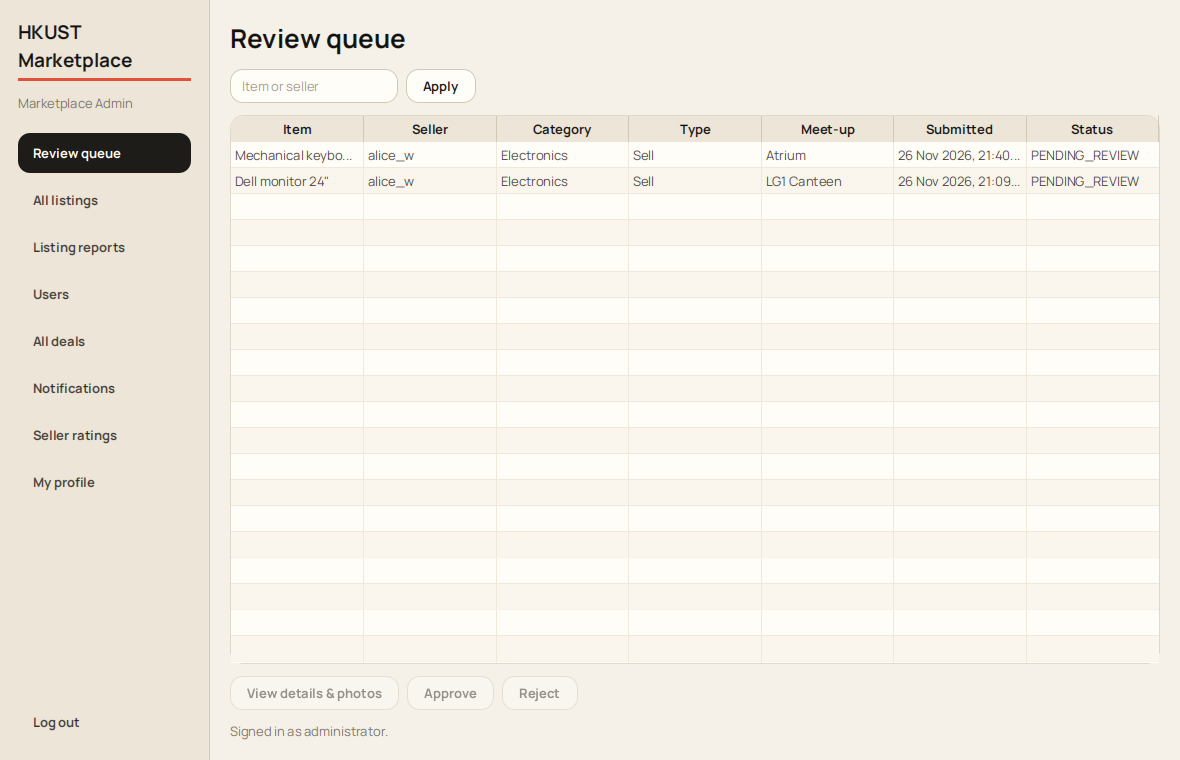
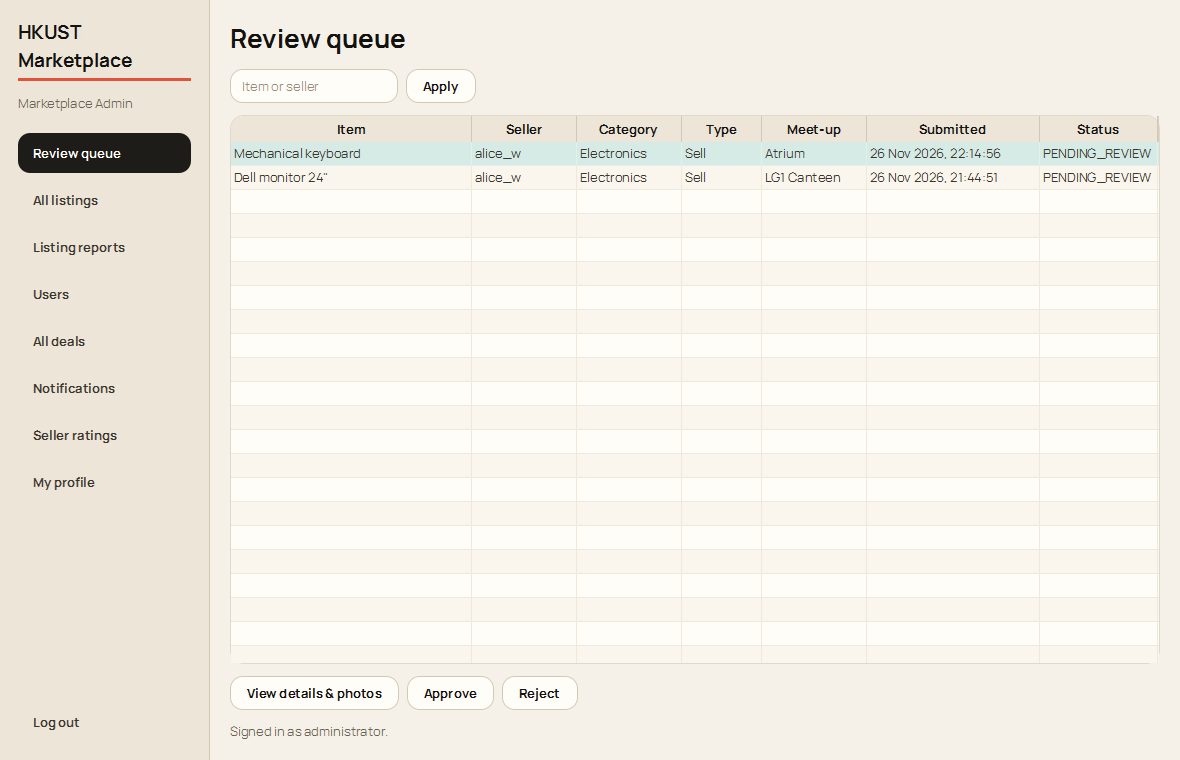
Refresh Admin Portal screenshots and document the redesigned workflows

diff --git a/SUBMISSION.md b/SUBMISSION.md
@@ -68,10 +68,11 @@ Also see Aryan's screenshots for each subtask, 2.1 to 2.9, in [docs/task2-screen
 | ![](docs/final/screenshots/task2-seller/s19_seller_notifications.png) | Seller notifications · ![](docs/final/screenshots/task2-seller/s20_seller_profile.png) Seller profile |
 
 ### Task 3 · Admin Portal (Hasnain)
-Also see [docs/task3/README.md](docs/task3/README.md).
+These screens were captured from the running JavaFX app with the shared theme from commit [15e22d7](https://github.com/saumikvij/HKUSTMarketplace/commit/15e22d77f4ccc5531722b648437f69733cf72d89). The [Task 3 guide](docs/task3/README.md) includes a second approval walkthrough.
 
 | Screen | Sample input → output |
 |---|---|
+| ![](docs/final/screenshots/task3-admin/a01_admin_login.png) | Enter the seeded administrator credentials on the Admin login screen. |
 | ![](docs/final/screenshots/task3-admin/a02_review_queue.png) | The review queue with two pending listings |
 | ![](docs/final/screenshots/task3-admin/a03_approve_confirm.png) | Approve the keyboard → ![](docs/final/screenshots/task3-admin/a04_listing_approved.png) it goes live for buyers |
 | ![](docs/final/screenshots/task3-admin/a05_reject_with_reason.png) | Reject the monitor with the reason "Please add a real photo of the monitor." → ![](docs/final/screenshots/task3-admin/a06_listing_rejected.png) |
@@ -79,6 +80,7 @@ Also see [docs/task3/README.md](docs/task3/README.md).
 | ![](docs/final/screenshots/task3-admin/a09_users.png) | User management · ![](docs/final/screenshots/task3-admin/a10_add_account_dialog.png) adding an account |
 | ![](docs/final/screenshots/task3-admin/a11_all_deals.png) | Every deal in the system · ![](docs/final/screenshots/task3-admin/a13_seller_ratings.png) seller ratings |
 | ![](docs/final/screenshots/task3-admin/a12_admin_notifications.png) | Admin notifications: submissions, reports and new accounts |
+| ![](docs/final/screenshots/task3-admin/a14_admin_profile.png) | Open My profile to inspect the current name and password-change fields. |
 
 ### All three portals working together
 All three portals share one stylesheet (`src/main/resources/hkust/marketplace/ui/style.css`): warm paper backgrounds, ink text, coral actions, teal for prices and selection, and the bundled Manrope typeface. Buyers and sellers both have a **Messages** tab listing all their conversations (Task 1 screenshots 52–53, Task 2 screenshots s22–s23).

diff --git a/docs/task3/README.md b/docs/task3/README.md
@@ -50,6 +50,10 @@ The sources and tests were compiled with the installed Java 21 and JavaFX runtim
 
 ### Execution screenshots
 
+All four screens below were captured from the running shared-theme build at [15e22d7](https://github.com/saumikvij/HKUSTMarketplace/commit/15e22d77f4ccc5531722b648437f69733cf72d89). This walkthrough uses a fresh copy of the seeded demo. After the administrator approved the pending monitor, the review queue cleared and the Buyer search returned one result at HK$600.
+
+The [integrated Admin walkthrough](../../SUBMISSION.md#task-3--admin-portal-hasnain) uses a separate demo session with two pending listings. It shows the keyboard approval, the monitor rejection with a reason, and the [Buyer's search for the approved keyboard](../final/screenshots/integration/b01_buyer_sees_approved_listing.png).
+
 | Admin input | Observed output |
 | --- | --- |
 | Select the pending monitor | [Review queue with approval controls](01-admin-queue.png) |
